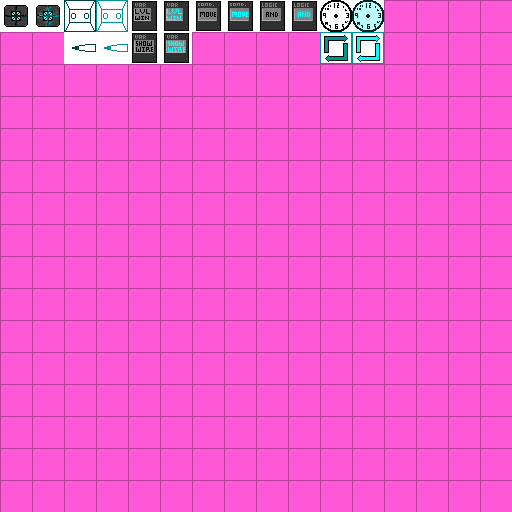
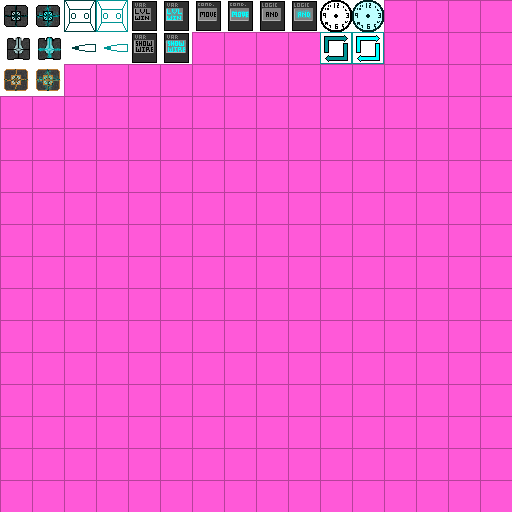
Added different sprites for different pressure plates

Changed region(s): [[0.0, 0.0625, 0.125, 0.1875]]

diff --git a/game/triggers/TriggerPlatePLAYER.java b/game/triggers/TriggerPlatePLAYER.java
@@ -34,7 +34,7 @@ public class TriggerPlatePLAYER extends Trigger implements Serializable{
 			triggered = true;
 		}
 	
-		sprite = 1; 
+		sprite = 17; 
 	}else	{
 		if(triggered)
 		{
@@ -42,7 +42,7 @@ public class TriggerPlatePLAYER extends Trigger implements Serializable{
 			triggered = false;
 		}
 		
-		sprite = 0;
+		sprite = 16;
 	}
 	}
 

diff --git a/game/triggers/TriggerPlateBOX.java b/game/triggers/TriggerPlateBOX.java
@@ -34,7 +34,7 @@ public class TriggerPlateBOX extends Trigger implements Serializable{
 			triggered = true;
 		}
 	
-		sprite = 1; 
+		sprite = 33; 
 	}else	{
 		if(triggered)
 		{
@@ -42,7 +42,7 @@ public class TriggerPlateBOX extends Trigger implements Serializable{
 			triggered = false;
 		}
 		
-		sprite = 0;
+		sprite = 32;
 	}
 	}
 
